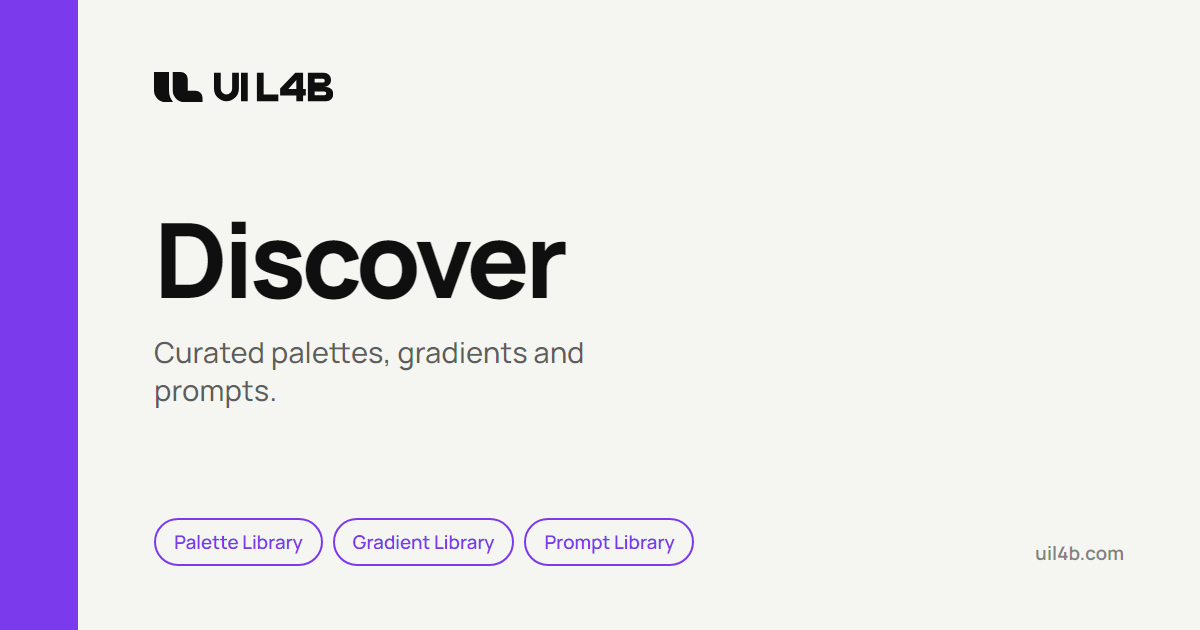
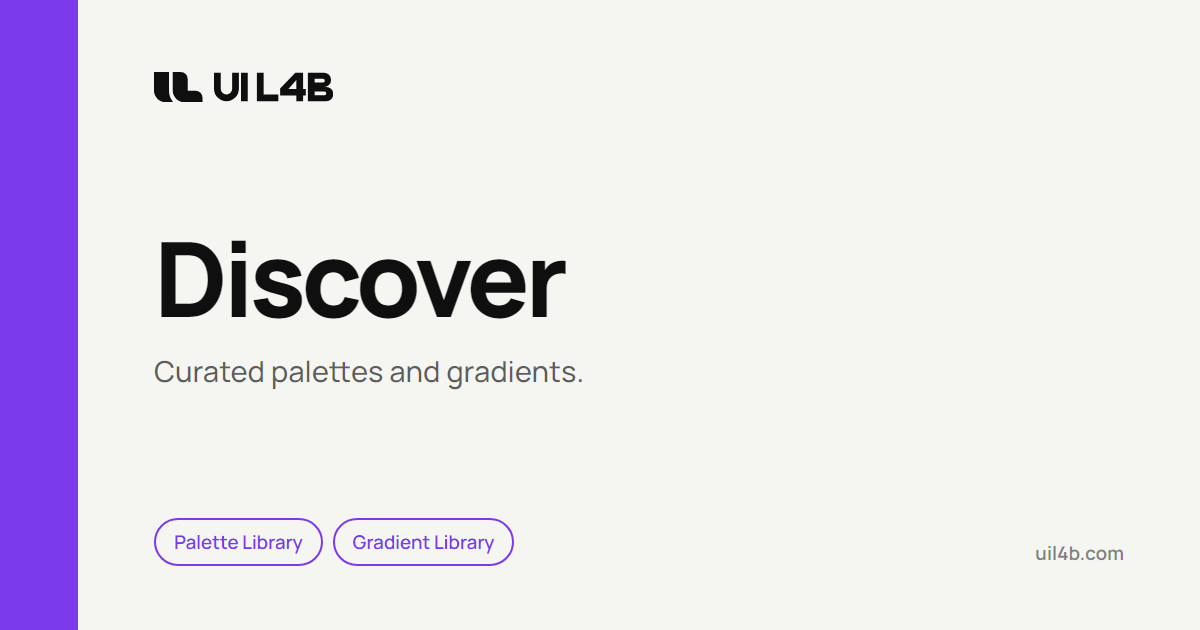
Park the Prompt Library: admin-only and not indexed
/discover/prompts now renders only for admins; everyone else lands on
the home page. The route is private in the route meta, so it is not
prerendered, carries noindex, and its rewrite serves the app shell; the
response also sends X-Robots-Tag: noindex. It is removed from the
sitemap, llms.txt, the Discover menus and index, search, share cards and
locale tool copy. Specs that used it as a public page run as admin or
are skipped where they test the public tiers.

Changed region(s): [[0.1233, 0.3317, 0.4933, 0.5127], [0.1233, 0.5429, 0.4933, 0.6635], [0.4317, 0.8143, 0.5858, 0.9048]]

diff --git a/tests/user-sim/25-layout-target-sweep.spec.js b/tests/user-sim/25-layout-target-sweep.spec.js
@@ -480,6 +480,7 @@ async function promptToolbar(page) {
   })
 }
 
+// parked: only an admin can open /discover/prompts, so these pages are opened signed in as one.
 test('S4 · the Prompt Library toolbar is one line at any width, and the Filters button loses nothing', async ({ browser }) => {
   budget(PROMPT_WIDTHS.length * 2)
   const damage = []
@@ -487,7 +488,7 @@ test('S4 · the Prompt Library toolbar is one line at any width, and the Filters
     const phone = w <= 640
     // The overview: the search field alone, one line, no groups yet.
     {
-      const { ctx, page } = await open(browser, w, 900, '/discover/prompts', '.pl-toolbar', { touch: phone })
+      const { ctx, page } = await open(browser, w, 900, '/discover/prompts', '.pl-toolbar', { touch: phone, as: { admin: true } })
       const r = await promptToolbar(page)
       await ctx.close()
       if (r.mainLines !== 1) damage.push(`overview @${w}px: the toolbar row is ${r.mainLines} lines`)
@@ -496,7 +497,7 @@ test('S4 · the Prompt Library toolbar is one line at any width, and the Filters
     }
     // The list: the three groups.
     {
-      const { ctx, page } = await open(browser, w, 900, '/discover/prompts#all', '.pl-toolbar', { touch: phone })
+      const { ctx, page } = await open(browser, w, 900, '/discover/prompts#all', '.pl-toolbar', { touch: phone, as: { admin: true } })
       let r = await promptToolbar(page)
       if (r.mainLines !== 1) damage.push(`list @${w}px: the toolbar row is ${r.mainLines} lines`)
       if (phone) {
@@ -752,7 +753,7 @@ test('S5 · the feedback FAB compacts on a short viewport and keeps its label on
   // On a touch screen the FAB is not drawn at all (feedback lives in the menus),
   // so the compact form is a mouse-and-short-window case.
   for (const [w, h] of FAB_SHORT) {
-    const { ctx, page } = await open(browser, w, h, '/discover/prompts', '.pl-toolbar', { touch: false })
+    const { ctx, page } = await open(browser, w, h, '/discover/palettes', '.lbry-toolbar', { touch: false })
     const f = await fabState(page)
     await ctx.close()
     expect(f, `${w}x${h}: no feedback FAB`).not.toBeNull()
@@ -761,13 +762,13 @@ test('S5 · the feedback FAB compacts on a short viewport and keeps its label on
     if (f.w < 24 || f.h < 24) damage.push(`${w}x${h}: compact FAB is ${f.w}x${f.h}, under the 24px floor`)
   }
   for (const [w, h] of FAB_ROOMY) {
-    const { ctx, page } = await open(browser, w, h, '/discover/prompts', '.pl-toolbar', { touch: false })
+    const { ctx, page } = await open(browser, w, h, '/discover/palettes', '.lbry-toolbar', { touch: false })
     const f = await fabState(page)
     await ctx.close()
     if (f.compact) damage.push(`${w}x${h}: FAB dropped its label on a viewport with room for it`)
   }
   {
-    const { ctx, page } = await open(browser, 844, 390, '/discover/prompts', '.pl-toolbar')
+    const { ctx, page } = await open(browser, 844, 390, '/discover/palettes', '.lbry-toolbar')
     const f = await fabState(page)
     await ctx.close()
     if (f && (f.w || f.h)) damage.push(`844x390 touch: the FAB is drawn (${f.w}x${f.h}) where the menus carry feedback`)
@@ -781,12 +782,13 @@ const FAB_COVER = [
   ['/discover/prompts', '.pl-toolbar', [...FAB_SHORT, [390, 844]]],
 ]
 
+// parked: only an admin can open /discover/prompts, so these pages are opened signed in as one.
 test('S5 / S10 · the FAB never permanently covers a control', async ({ browser }) => {
   budget(FAB_COVER.reduce((n, [, , shapes]) => n + shapes.length, 0))
   const damage = []
   for (const [path, waitFor, shapes] of FAB_COVER) {
     for (const [w, h] of shapes) {
-      const { ctx, page } = await open(browser, w, h, path, waitFor)
+      const { ctx, page } = await open(browser, w, h, path, waitFor, { as: { admin: true } })
       await page.evaluate(() => scrollTo(0, document.documentElement.scrollHeight))
       // Every rectangle below is read from a live layout, so the page has to
       // have stopped moving first. 500ms was a guess at how long that takes.

diff --git a/tests/user-sim/125-prompt-gallery-back-to-overview.spec.js b/tests/user-sim/125-prompt-gallery-back-to-overview.spec.js
@@ -16,12 +16,16 @@
 // width (top right above 640px, full width at the bottom at 640 and below), so
 // the visible one is the one that must hold focus.
 import { test, expect } from './base.js'
-import { go, watch } from './helpers.js'
+import { go, watch, signIn } from './helpers.js'
+
+// parked: only an admin can open /discover/prompts, so every page here signs in as the admin.
+// The admin plan is Pro, so this file says nothing about Free or signed-out gating.
 
 for (const [width, height, where] of [[1440, 900, 'top'], [390, 844, 'bottom']]) {
   test(`Back from a chip-switched list returns to the overview with focus on that section's View more — ${width}px`, async ({ browser }) => {
     const context = await browser.newContext({ viewport: { width, height } })
     const page = await context.newPage()
+    await signIn(page, { admin: true })
     watch(page, `a visitor going into a prompt list and back out at ${width}px`)
     await go(page, '/discover/prompts')
     await expect(page.locator('.pl-overview')).toBeVisible()
@@ -68,6 +72,7 @@ for (const [width, height, where] of [[1440, 900, 'top'], [390, 800, 'bottom']])
     test(`Back from the ${heading} list scrolls down to that section with focus on its View more — ${width}px`, async ({ browser }) => {
       const context = await browser.newContext({ viewport: { width, height } })
       const page = await context.newPage()
+      await signIn(page, { admin: true })
       watch(page, `a visitor opening the ${heading} list from the bottom of the overview and coming back at ${width}px`)
       await go(page, '/discover/prompts')
       await expect(page.locator('.pl-overview')).toBeVisible()
@@ -107,6 +112,7 @@ for (const [hash, label] of [['#all', 'Browse all'], ['#website', 'the Website l
   test(`My Prompts clicked from ${label} stays on My Prompts, and Community clicked from there returns to the overview`, async ({ browser }) => {
     const context = await browser.newContext({ viewport: { width: 1440, height: 900 } })
     const page = await context.newPage()
+    await signIn(page, { admin: true })
     watch(page, `a visitor leaving ${label} for My Prompts and back`)
     await go(page, `/discover/prompts${hash}`)
     await expect(page.locator('.pl-gallery')).toBeVisible()
@@ -137,6 +143,7 @@ test('a shared list link opens Community without overwriting a saved My Prompts 
   const context = await browser.newContext({ viewport: { width: 1440, height: 900 } })
   await context.addInitScript((k) => { try { if (!sessionStorage.getItem('seeded')) { localStorage.setItem(k, 'my'); sessionStorage.setItem('seeded', '1') } } catch { /* no storage */ } }, TAB_KEY)
   const page = await context.newPage()
+  await signIn(page, { admin: true })
   watch(page, 'a visitor who last used My Prompts following a shared list link')
   await go(page, '/discover/prompts#website')
   await expect(page.locator('#pl-results-h')).toHaveText('Website')

diff --git a/tests/user-sim/259-prompt-gallery-parked.spec.js b/tests/user-sim/259-prompt-gallery-parked.spec.js
@@ -1,0 +1,59 @@
+// The Prompt Library (/discover/prompts) is parked: admins can open it, nobody
+// else can, and nothing public points at it.
+//
+// Three things are held here, each from the visitor's side:
+//   1. a signed-out visitor who types or follows the URL ends on the homepage;
+//   2. the Discover menu does not list the library;
+//   3. the sitemap does not advertise it.
+// An admin still gets the page, so the gate is shown to be a gate and not a
+// route that has been deleted.
+import { test, expect } from './base.js'
+import { go, watch, signIn } from './helpers.js'
+
+const ROUTE = '/discover/prompts'
+
+test.describe('the parked Prompt Library', () => {
+  test('a signed-out visitor to /discover/prompts ends on the homepage', async ({ page }) => {
+    watch(page, 'a signed-out visitor following an old Prompt Library link')
+    await go(page, ROUTE)
+    await expect(page).toHaveURL((url) => url.pathname === '/')
+    await expect(page.locator('.pl-toolbar, .pl-gallery, .pl-search')).toHaveCount(0)
+  })
+
+  test('the Discover menu has no Prompt Library link', async ({ page }) => {
+    watch(page, 'a visitor opening the Discover menu')
+    await go(page, '/discover')
+    await page.getByRole('button', { name: 'Discover', exact: true }).click()
+    const menu = page.getByRole('region', { name: 'Discover menu' })
+    await expect(menu).toBeVisible()
+    // POSITIVE CONTROL: the menu has links in it, so an empty match below is
+    // the library being absent rather than the menu being empty.
+    await expect(menu.getByRole('link', { name: /Palette Library/ })).toBeVisible()
+    await expect(menu.getByRole('link', { name: /Prompt/i })).toHaveCount(0)
+    await expect(menu.locator(`a[href="${ROUTE}"]`)).toHaveCount(0)
+  })
+
+  test('the Discover index does not list it', async ({ page }) => {
+    watch(page, 'a visitor on the Discover index')
+    await go(page, '/discover')
+    await expect(page.locator('main a[href*="/discover/palettes"]').first()).toBeVisible()
+    await expect(page.locator(`main a[href="${ROUTE}"]`)).toHaveCount(0)
+  })
+
+  test('sitemap.xml does not advertise it', async ({ request }) => {
+    const res = await request.get('/sitemap.xml')
+    expect(res.ok()).toBe(true)
+    const xml = await res.text()
+    // POSITIVE CONTROL: a sibling Discover page is still there.
+    expect(xml).toContain('/discover/palettes')
+    expect(xml).not.toContain(ROUTE)
+  })
+
+  test('an admin still opens the library', async ({ page }) => {
+    watch(page, 'the site owner opening the parked Prompt Library')
+    await signIn(page, { admin: true })
+    await go(page, ROUTE)
+    await expect(page).toHaveURL((url) => url.pathname === ROUTE)
+    await expect(page.locator('.pl-search, .pl-toolbar').first()).toBeVisible({ timeout: 20000 })
+  })
+})

diff --git a/src/data/toolTree.js b/src/data/toolTree.js
@@ -368,7 +368,8 @@ const DISCOVER_SPEC = [
   // for in three places at once. Route and flag both corrected; the desc was
   // already written for the live page and is untouched.
   { id: 'inspiration', label: 'Inspiration', desc: 'Community-submitted UI systems — browse, save and submit your own.', route: '/community', soon: false },
-  { id: 'community-prompts', icon: 'community-prompts', label: 'Prompt Library', desc: 'Ready-to-use prompts for UI, web design and marketing — a free selection for everyone, the full library with Pro.', route: '/discover/prompts', soon: false },
+  // The Prompt Library (/discover/prompts) is parked behind the admin gate, so
+  // no public list names it. Add its row back here when it opens up.
   { id: 'collections', label: 'Collections', desc: 'Save and organise everything you find.', route: '/discover', soon: true },
 ]
 
@@ -561,7 +562,6 @@ const MENU_ROW_HUE = {
   'button-library': 'neutral',
   'font-gallery': 'type',
   'icon-library': 'icons',
-  'community-prompts': 'ai',
   'learn-colour-contrast': 'colour',
   'learn-type-scales': 'type',
   'learn-typeface-metrics': 'type',
@@ -600,7 +600,7 @@ function groupsToMenu(groups, spec) {
 
 const DISCOVER_MENU = groupsToMenu(DISCOVER_GROUPS, [
   { label: 'Browse', ids: ['palette-library', 'gradient-gallery', 'font-gallery', 'icon-library', 'button-library'] },
-  { label: 'Community', ids: ['inspiration', 'community-prompts'] },
+  { label: 'Community', ids: ['inspiration'] },
   { label: 'Your library', ids: ['collections'] },
 ])
 
@@ -662,7 +662,7 @@ function liveDiscoverGroups() {
   return DISCOVER_GROUPS.filter((group) => !group.soon)
 }
 
-/** "Palettes, gradients, fonts, icons and prompts" — assembled, never typed. */
+/** "Palettes, gradients, fonts, icons and buttons" — assembled, never typed. */
 function discoverPromoTitle() {
   const names = liveDiscoverGroups()
     .map((group) => group.label.replace(/ (?:Library|Gallery|Resources)$/, ''))

diff --git a/tests/user-sim/99-prompt-gallery-motion.spec.js b/tests/user-sim/99-prompt-gallery-motion.spec.js
@@ -12,13 +12,16 @@ import { go, signIn, watch } from './helpers.js'
 import { COMMUNITY_PROMPTS } from '../../api/_lib/library/communityPrompts.js'
 import { PROMPT_PREVIEW_IDS, PROMPT_ANIM_IDS } from '../../src/data/promptPreviewAssets.js'
 
-async function openLibrary(browser, { width = 1440, height = 900, reducedMotion = 'no-preference', hash = '', member = false } = {}) {
+// parked: only an admin can open /discover/prompts, so every page here signs in as the admin.
+// The admin plan is Pro, so this file says nothing about Free or signed-out gating.
+
+async function openLibrary(browser, { width = 1440, height = 900, reducedMotion = 'no-preference', hash = '' } = {}) {
   const context = await browser.newContext({ viewport: { width, height }, reducedMotion })
   await context.addInitScript(() => { try { localStorage.setItem('vs-prompt-tab', 'community') } catch { /* no storage */ } })
   const page = await context.newPage()
   watch(page, 'a visitor browsing community prompts')
-  // Saving belongs to an account; signed out, Save opens the sign-in prompt.
-  if (member) await signIn(page)
+  // Only an admin reaches the route; the admin account is also the member who can save.
+  await signIn(page, { admin: true })
   await go(page, `/discover/prompts${hash}`)
   await expect(page.locator('.pl-card').first()).toBeVisible()
   return { context, page }
@@ -127,7 +130,7 @@ test.describe('the community prompt gallery', () => {
   })
 
   test('Save toggles: pressed state, unsave with Undo, the same in the modal', async ({ browser }) => {
-    const { context, page } = await openLibrary(browser, { member: true })
+    const { context, page } = await openLibrary(browser)
     const id = await firstCardId(page)
     const save = page.locator('.pl-card-save').first()
     const myCount = page.locator('.pl-tab', { hasText: 'My Prompts' }).locator('.pl-tab-count')

diff --git a/tests/user-sim/77-content-quality.spec.js b/tests/user-sim/77-content-quality.spec.js
@@ -215,7 +215,8 @@ test.describe('the Prompt Library empty state', () => {
   // Prompt Library rendered a bare <p> with no control and no role, so the grid
   // emptying was announced to NOBODY — measured: its role="status" region was
   // present and rendered the empty string — and there was no way back out.
-  test('a search that matches nothing announces itself and offers a way out', async ({ page }) => {
+  // parked: admin-only (non-admins are redirected to /)
+  test.skip('a search that matches nothing announces itself and offers a way out', async ({ page }) => {
     watch(page, PERSONA)
     await go(page, '/discover/prompts#all')
     await expectRendered(page)
@@ -269,7 +270,7 @@ test.describe('the Prompt Library empty state', () => {
   // the same rank as the CTA it precedes.
   test('the heading levels never skip a step', async ({ page }) => {
     watch(page, PERSONA)
-    for (const route of ['/discover/prompts', '/discover/palettes', '/discover/gradients', '/community', '/learn']) {
+    for (const route of ['/discover/palettes', '/discover/gradients', '/community', '/learn']) {
       await go(page, route)
       await expectRendered(page)
       const levels = await page.evaluate(() => [...document.querySelectorAll('main h1, main h2, main h3, main h4, .sec h1, .sec h2, .sec h3, .sec h4')]
@@ -342,7 +343,6 @@ test.describe('route metadata', () => {
 // landmark sweep structurally cannot ask for.
 test.describe('the two library grids name themselves and announce their size', () => {
   const CASES = [
-    { route: '/discover/prompts#all', noun: 'prompt', cards: '.pl-gallery > *' },
     { route: '/community', noun: 'design', cards: '.ch-grid > *' },
   ]
   for (const { route, noun, cards } of CASES) {

diff --git a/src/data/toolIndex.js b/src/data/toolIndex.js
@@ -311,7 +311,6 @@ const CREATE_TOOL_ENTRIES = createTools().map((tool) => {
 // The three Learn guides carry no category and so no pill: Documentation is not
 // a page, and a pill naming it labels the row with something that is not there.
 const STATIC_TOOL_DEFS = [
-  { id: 'prompts', label: 'Prompt Library', path: '/prompts', category: 'documentation', description: 'AI image generation prompts with output previews.', keywords: ['prompt', 'prompts', 'ai', 'midjourney', 'dalle', 'stable diffusion', 'library'] },
   { id: 'docs-design', label: 'Design Principles', path: ROUTE_PRINCIPLES, guide: true, subcategory: 'Design & Brand', description: 'Visual hierarchy, balance, and design psychology.', keywords: ['design', 'principles', 'theory', 'documentation'] },
   { id: 'docs-themes', label: 'UI Design Themes', path: ROUTE_THEMES, guide: true, subcategory: 'Design & Brand', description: 'Reference guide to major UI design trends with visual examples.', keywords: ['themes', 'trends', 'brutalism', 'glassmorphism', 'bento', 'luxury', 'design', 'style'] },
   { id: 'docs-brand', label: 'Brand Colour Guide', path: ROUTE_BRAND_COLOUR, guide: true, subcategory: 'Design & Brand', description: 'How to choose, build, and maintain a brand colour palette.', keywords: ['brand', 'colour', 'color', 'palette', '60-30-10', 'psychology', 'accessibility', 'guide'] },
@@ -341,7 +340,6 @@ export const TOOL_I18N_MAP = {
   'font-pair': 'tools.fontPairs',
   'type-scale': 'tools.typeScale',
   'alt-text': 'tools.altText',
-  prompts: 'tools.promptLibrary',
   'docs-design': 'tools.docsDesign',
 }
 

diff --git a/tests/unit/locale-tool-copy.test.js b/tests/unit/locale-tool-copy.test.js
@@ -188,7 +188,7 @@ test('THE ONE THAT MATTERS: no locale names a tool or category the app does not 
   const consumed = consumedKeys()
   const files = locales()
   assert.ok(files.length >= 10, `only ${files.length} locale files — this guard would pass vacuously`)
-  assert.ok(consumed.tools.size >= 8 && consumed.categories.size >= 6,
+  assert.ok(consumed.tools.size >= 7 && consumed.categories.size >= 6,
     'the consumed sets look empty — the derivation broke, not the locales')
   for (const [code, messages] of files) {
     for (const block of ['tools', 'categories']) {
@@ -244,7 +244,7 @@ test('the i18n map can rename a tool but cannot invent one', () => {
   // A key naming a tool that does not exist is silently ignored at runtime, so
   // nothing else would notice it had been aimed at a ghost.
   const known = new Set(TOOL_ENTRIES.map((t) => t.id))
-  assert.ok(Object.keys(TOOL_I18N_MAP).length >= 8, 'the map looks empty — this would pass vacuously')
+  assert.ok(Object.keys(TOOL_I18N_MAP).length >= 7, 'the map looks empty — this would pass vacuously')
   for (const [id, prefix] of Object.entries(TOOL_I18N_MAP)) {
     assert.ok(known.has(id), `TOOL_I18N_MAP translates "${id}", which is not a tool in the registry`)
     assert.match(prefix, /^tools\.[A-Za-z0-9_]+$/, `${id} maps to "${prefix}", which is not a tools.* key`)

diff --git a/tests/user-sim/101-coarse-fields-16.spec.js b/tests/user-sim/101-coarse-fields-16.spec.js
@@ -19,7 +19,7 @@ import { go, signIn } from './helpers.js'
 // selected stop's hex field and the angle wheel's number field.
 const ROUTES = [['/projects', 0], ['/create/palette', 0], ['/create/gradient', 2], ['/create/type-scale', 1],
   ['/create/tint', 1], ['/create/icons', 1], ['/create/font-gallery', 1], ['/discover/palettes', 1],
-  ['/discover/prompts', 1], ['/feedback', 2], ['/create/alt-text', 1], ['/settings', 0]]
+  ['/feedback', 2], ['/create/alt-text', 1], ['/settings', 0]]
 const TEXTLIKE = 'input:not([type=checkbox]):not([type=radio]):not([type=range]):not([type=color]):not([type=file])'
   + ':not([type=button]):not([type=submit]):not([type=reset]):not([type=image]):not([type=hidden]),select,textarea'
 
@@ -48,7 +48,7 @@ for (const width of [390, 820]) {
         for (const r of rows) if (r.px < 16) small.push(`${route} ${r.sig} ${r.px}px`)
       }
       // POSITIVE CONTROL: the walk really found fields, so an empty list means something.
-      expect(seen, 'no text fields were found on any route — the walk is blind').toBeGreaterThan(10)
+      expect(seen, 'no text fields were found on any route — the walk is blind').toBeGreaterThanOrEqual(ROUTES.reduce((n, [, expected]) => n + expected, 0))
       expect(small, 'fields that make iOS zoom on focus').toEqual([])
     })
   })

diff --git a/tests/user-sim/21-reflow-320.spec.js b/tests/user-sim/21-reflow-320.spec.js
@@ -26,7 +26,7 @@
 //                       already asked for an ellipsis; `min-width: auto` on the
 //                       parent flex item meant it never applied.
 import { test, expect } from './base.js'
-import { go, watch } from './helpers.js'
+import { go, watch, signIn } from './helpers.js'
 
 // 320px is the narrowest viewport WCAG 1.4.10 requires (it is 400px CSS at
 // 400% zoom). Chromium reports ~315px of client width after the scrollbar.
@@ -35,7 +35,6 @@ const NARROW = { width: 320, height: 800 }
 const ROUTES = [
   '/',
   '/create/palette',
-  '/discover/prompts',
   '/create/type-scale',
   '/create/icons',
   '/plans',
@@ -226,9 +225,11 @@ test.describe('reflow at 320px', () => {
     }
   })
 
+  // parked: only an admin can open /discover/prompts, so this phone signs in as one.
   test('the prompt library CTA is on screen and tappable', async ({ page }) => {
     await page.setViewportSize(NARROW)
     watch(page, 'a designer submitting a prompt from a phone')
+    await signIn(page, { admin: true })
     await go(page, '/discover/prompts')
 
     const cta = page.locator('.pl-add-btn')

diff --git a/tests/user-sim/93-prompt-output-previews.spec.js b/tests/user-sim/93-prompt-output-previews.spec.js
@@ -14,15 +14,19 @@
 // It is asserted on the RENDERED attribute rather than in the source, because
 // what matters is what the browser was handed.
 import { test, expect } from './base.js'
-import { go, watch } from './helpers.js'
+import { go, watch, signIn } from './helpers.js'
 import { COMMUNITY_PROMPTS } from '../../api/_lib/library/communityPrompts.js'
 import { PROMPT_PREVIEW_IDS } from '../../src/data/promptPreviewAssets.js'
+
+// parked: only an admin can open /discover/prompts, so every page here signs in as the admin.
+// The admin plan is Pro, so this file says nothing about Free or signed-out gating.
 
 const withPreview = COMMUNITY_PROMPTS.filter((p) => PROMPT_PREVIEW_IDS.includes(p.id))
 
 async function openLibrary(browser, width = 1280) {
   const context = await browser.newContext({ viewport: { width, height: 1000 } })
   const page = await context.newPage()
+  await signIn(page, { admin: true })
   watch(page, 'a visitor browsing the prompt library for something to copy')
   await go(page, '/discover/prompts')
   await expect(page.locator('.pl-card').first()).toBeVisible()

diff --git a/src/App.jsx b/src/App.jsx
@@ -573,7 +573,9 @@ function AppInner({ toast }) {
                   threw `onCopy is not a function`, silently: no text, no toast,
                   no visible error, on the page whose whole product is the text
                   you came to copy. Same helper /seo is given below. */}
-              <Route path="/discover/prompts" element={<PromptLibrary onCopy={copy} toast={toast} />} />
+              {/* Parked: admins only until the library is opened up. Everyone
+                  else is sent to the homepage by RequireAdmin. */}
+              <Route path="/discover/prompts" element={<RequireAdmin><PromptLibrary onCopy={copy} toast={toast} /></RequireAdmin>} />
               {/* Copy-ready button designs. `onCopy` is required: every copy
                   button on the page calls it. */}
               <Route path="/discover/buttons" element={<ButtonLibrary onCopy={copy} />} />
